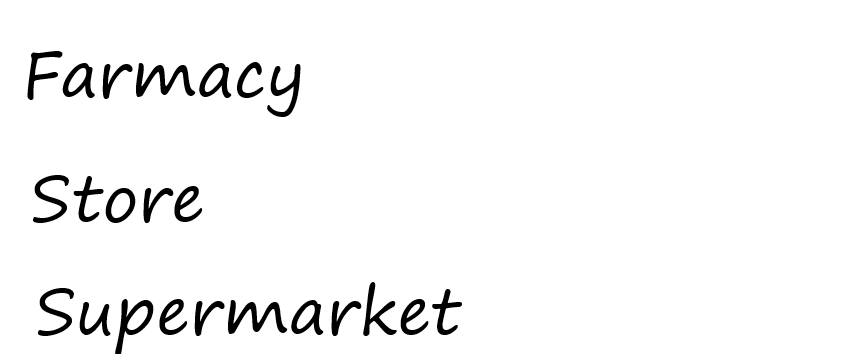
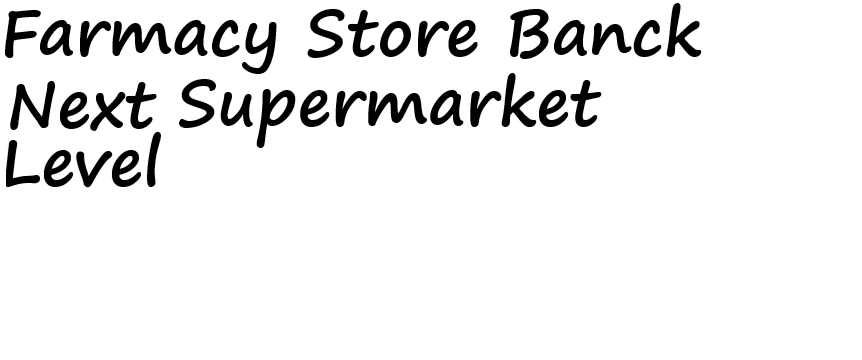
ajuste a carteles

Changed region(s): [[0.0, 0.0306, 0.6937, 0.6417], [0.0302, 0.7944, 0.5429, 0.9778], [0.3619, 0.0, 0.8144, 0.1833]]

diff --git a/sircovid/Objetos.go b/sircovid/Objetos.go
@@ -19,7 +19,7 @@ type Objetos struct {
 	img         *ebiten.Image
 }
 
-var barbijo, nextLevel, cartFarmacy, cartSupermarket, cartStore Objetos
+var barbijo, nextLevel, cartFarmacy, cartSupermarket, cartStore, cartBanck Objetos
 
 func initObjetos() {
 	barbijo.FrameOX = 0
@@ -34,13 +34,13 @@ func initObjetos() {
 		log.Fatal(err)
 	}
 	nextLevel.FrameOX = 0
-	nextLevel.FrameOY = 0
+	nextLevel.FrameOY = 77
 	nextLevel.FrameNum = 1
-	nextLevel.FrameWidth = 240
-	nextLevel.FrameHeight = 240
+	nextLevel.FrameWidth = 170
+	nextLevel.FrameHeight = 120
 	nextLevel.X = float64(695)
-	nextLevel.Y = float64(450)
-	nextLevel.img, _, err = ebitenutil.NewImageFromFile(`sircovid\data\NextLevel.png`, ebiten.FilterDefault)
+	nextLevel.Y = float64(440)
+	nextLevel.img, _, err = ebitenutil.NewImageFromFile(`sircovid\data\carteles.png`, ebiten.FilterDefault)
 	if err != nil {
 		log.Fatal(err)
 	}
@@ -48,32 +48,38 @@ func initObjetos() {
 	cartFarmacy.FrameOX = 0
 	cartFarmacy.FrameOY = 0
 	cartFarmacy.FrameNum = 1
-	cartFarmacy.FrameWidth = 310
-	cartFarmacy.FrameHeight = 135
+	cartFarmacy.FrameWidth = 290
+	cartFarmacy.FrameHeight = 78
 	cartFarmacy.X = float64(380)
-	cartFarmacy.Y = float64(20)
-	cartFarmacy.img, _, err = ebitenutil.NewImageFromFile(`sircovid\data\carteles.png`, ebiten.FilterDefault)
-	if err != nil {
-		log.Fatal(err)
-	}
+	cartFarmacy.Y = float64(40)
+	cartFarmacy.img = nextLevel.img
 
-	cartSupermarket.FrameOX = 0
-	cartSupermarket.FrameOY = 260
+	cartSupermarket.FrameOX = 175
+	cartSupermarket.FrameOY = 77
 	cartSupermarket.FrameNum = 1
-	cartSupermarket.FrameWidth = 500
-	cartSupermarket.FrameHeight = 135
-	cartSupermarket.X = float64(160)
-	cartSupermarket.Y = float64(70)
+	cartSupermarket.FrameWidth = 440
+	cartSupermarket.FrameHeight = 78
+	cartSupermarket.X = float64(165)
+	cartSupermarket.Y = float64(80)
 	cartSupermarket.img = cartFarmacy.img
 
-	cartStore.FrameOX = 0
-	cartStore.FrameOY = 135
+	cartStore.FrameOX = 300
+	cartStore.FrameOY = 0
 	cartStore.FrameNum = 1
-	cartStore.FrameWidth = 400
-	cartStore.FrameHeight = 135
-	cartStore.X = float64(-8)
-	cartStore.Y = float64(250)
+	cartStore.FrameWidth = 190
+	cartStore.FrameHeight = 78
+	cartStore.X = float64(0)
+	cartStore.Y = float64(260)
 	cartStore.img = cartFarmacy.img
+
+	cartBanck.FrameOX = 500
+	cartBanck.FrameOY = 0
+	cartBanck.FrameNum = 1
+	cartBanck.FrameWidth = 210
+	cartBanck.FrameHeight = 78
+	cartBanck.X = float64(620)
+	cartBanck.Y = float64(20)
+	cartBanck.img = cartFarmacy.img
 }
 
 func dibujarObjetos(B Objetos, screen *ebiten.Image) {

diff --git a/sircovid/sirCovid.go b/sircovid/sirCovid.go
@@ -128,9 +128,9 @@ func (g *Game) Draw(screen *ebiten.Image) {
 	dibujarObjetos(cartSupermarket, screen)
 	dibujarObjetos(cartFarmacy, screen)
 	dibujarObjetos(cartStore, screen)
+	dibujarObjetos(cartBanck, screen)
 
 	// dibujar texto
-	dibujarTextos(screen)
 	dibujarTextos(screen)
 }
 

diff --git a/sircovid/player.go b/sircovid/player.go
@@ -221,7 +221,6 @@ func vida(h humanos, p player, b Objetos) player {
 		}
 	}
 	//infmune con barbijo
-
 	if p.X[0] > b.X && p.X[0] < b.X+20 && p.Y[0]+32 > b.Y && p.Y[0] < b.Y+32 {
 		barbijo.X = 1000
 		p.Inmune = true

diff --git a/sircovid/iniciarVariables.go b/sircovid/iniciarVariables.go
@@ -27,6 +27,8 @@ func pasarNivel() {
 
 	pasarNivelPlayer()
 
+	initObjetos()
+
 	// initSonido()
 	count = 0
 	initEnemigos()
